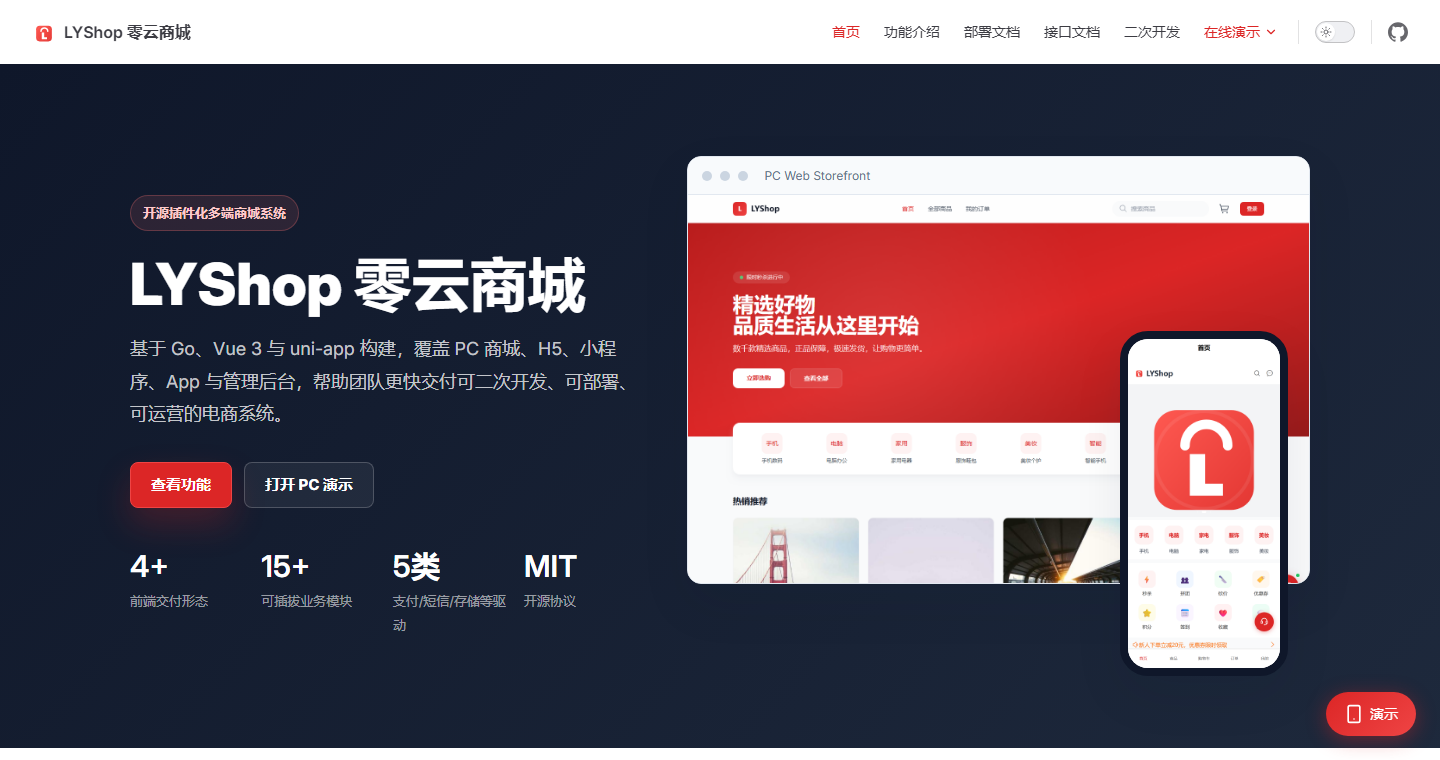
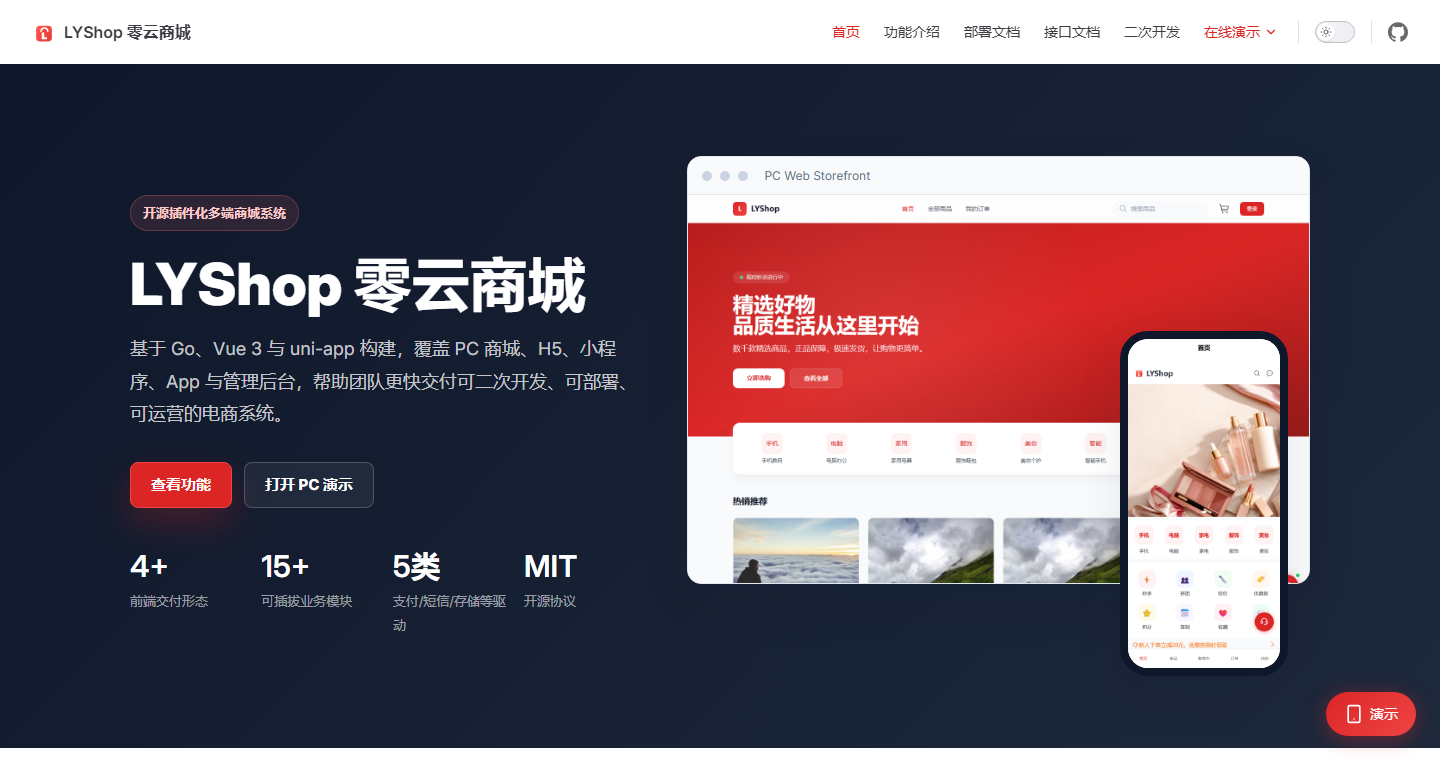
优化H5首页轮播演示图
主要改动：新增三张商城场景轮播图，替换 H5 首页装修演示数据和兜底配置中的 logo 占位图；同步刷新文档站 H5 首页截图与 README 首页展示图。

原因和影响：提升 H5 演示首页的商业化视觉效果，让用户看到更接近真实商城的装修效果；不涉及后端接口、部署配置或业务流程变更。

Changed region(s): [[0.5, 0.4842, 0.9062, 0.7868]]

diff --git a/app/pages/index/index.vue b/app/pages/index/index.vue
@@ -51,10 +51,11 @@ onMounted(async () => {
         id: 'default_banner',
         props: {
           images: [
-            { url: '/static/lyshop-wordmark.svg', link: '/pages/product/list' },
-            { url: '/static/lyshop-mark.svg', link: '/pages/marketing/coupon?mode=claim' },
+            { url: '/static/demo/banner-electronics.png', link: '/pages/product/list?category_id=1' },
+            { url: '/static/demo/banner-fashion.png', link: '/pages/marketing/coupon?mode=claim' },
+            { url: '/static/demo/banner-home.png', link: '/pages/product/list?category_id=3' },
           ],
-          height: 300
+          height: 340
         }
       },
       {